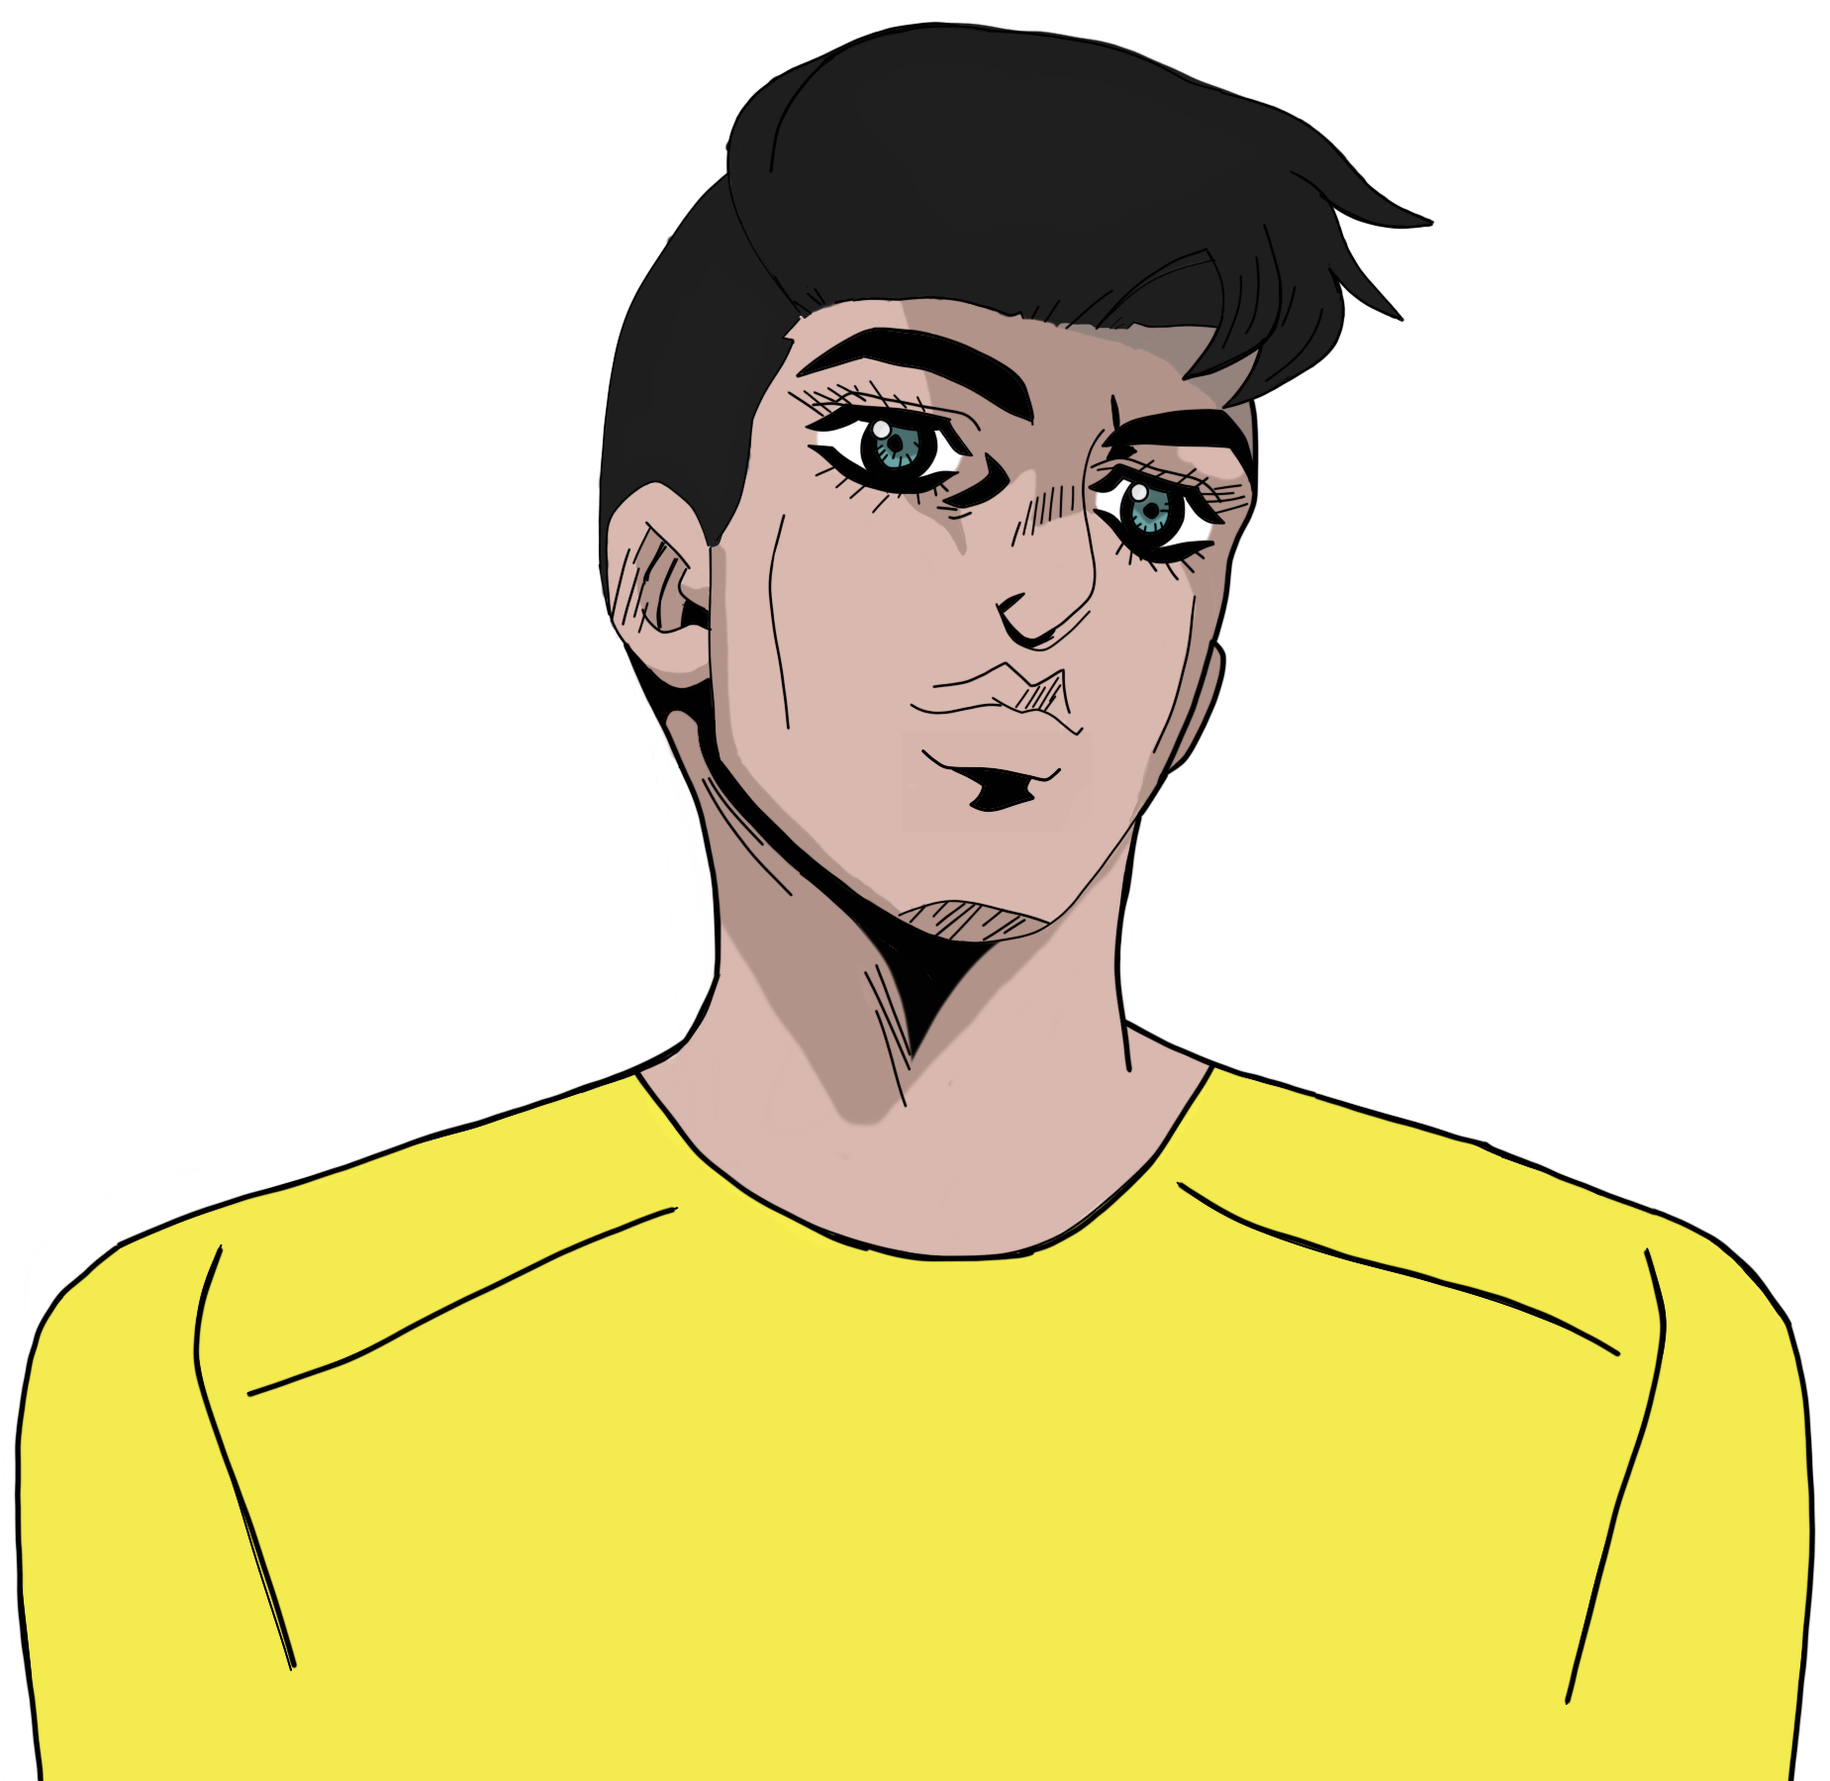
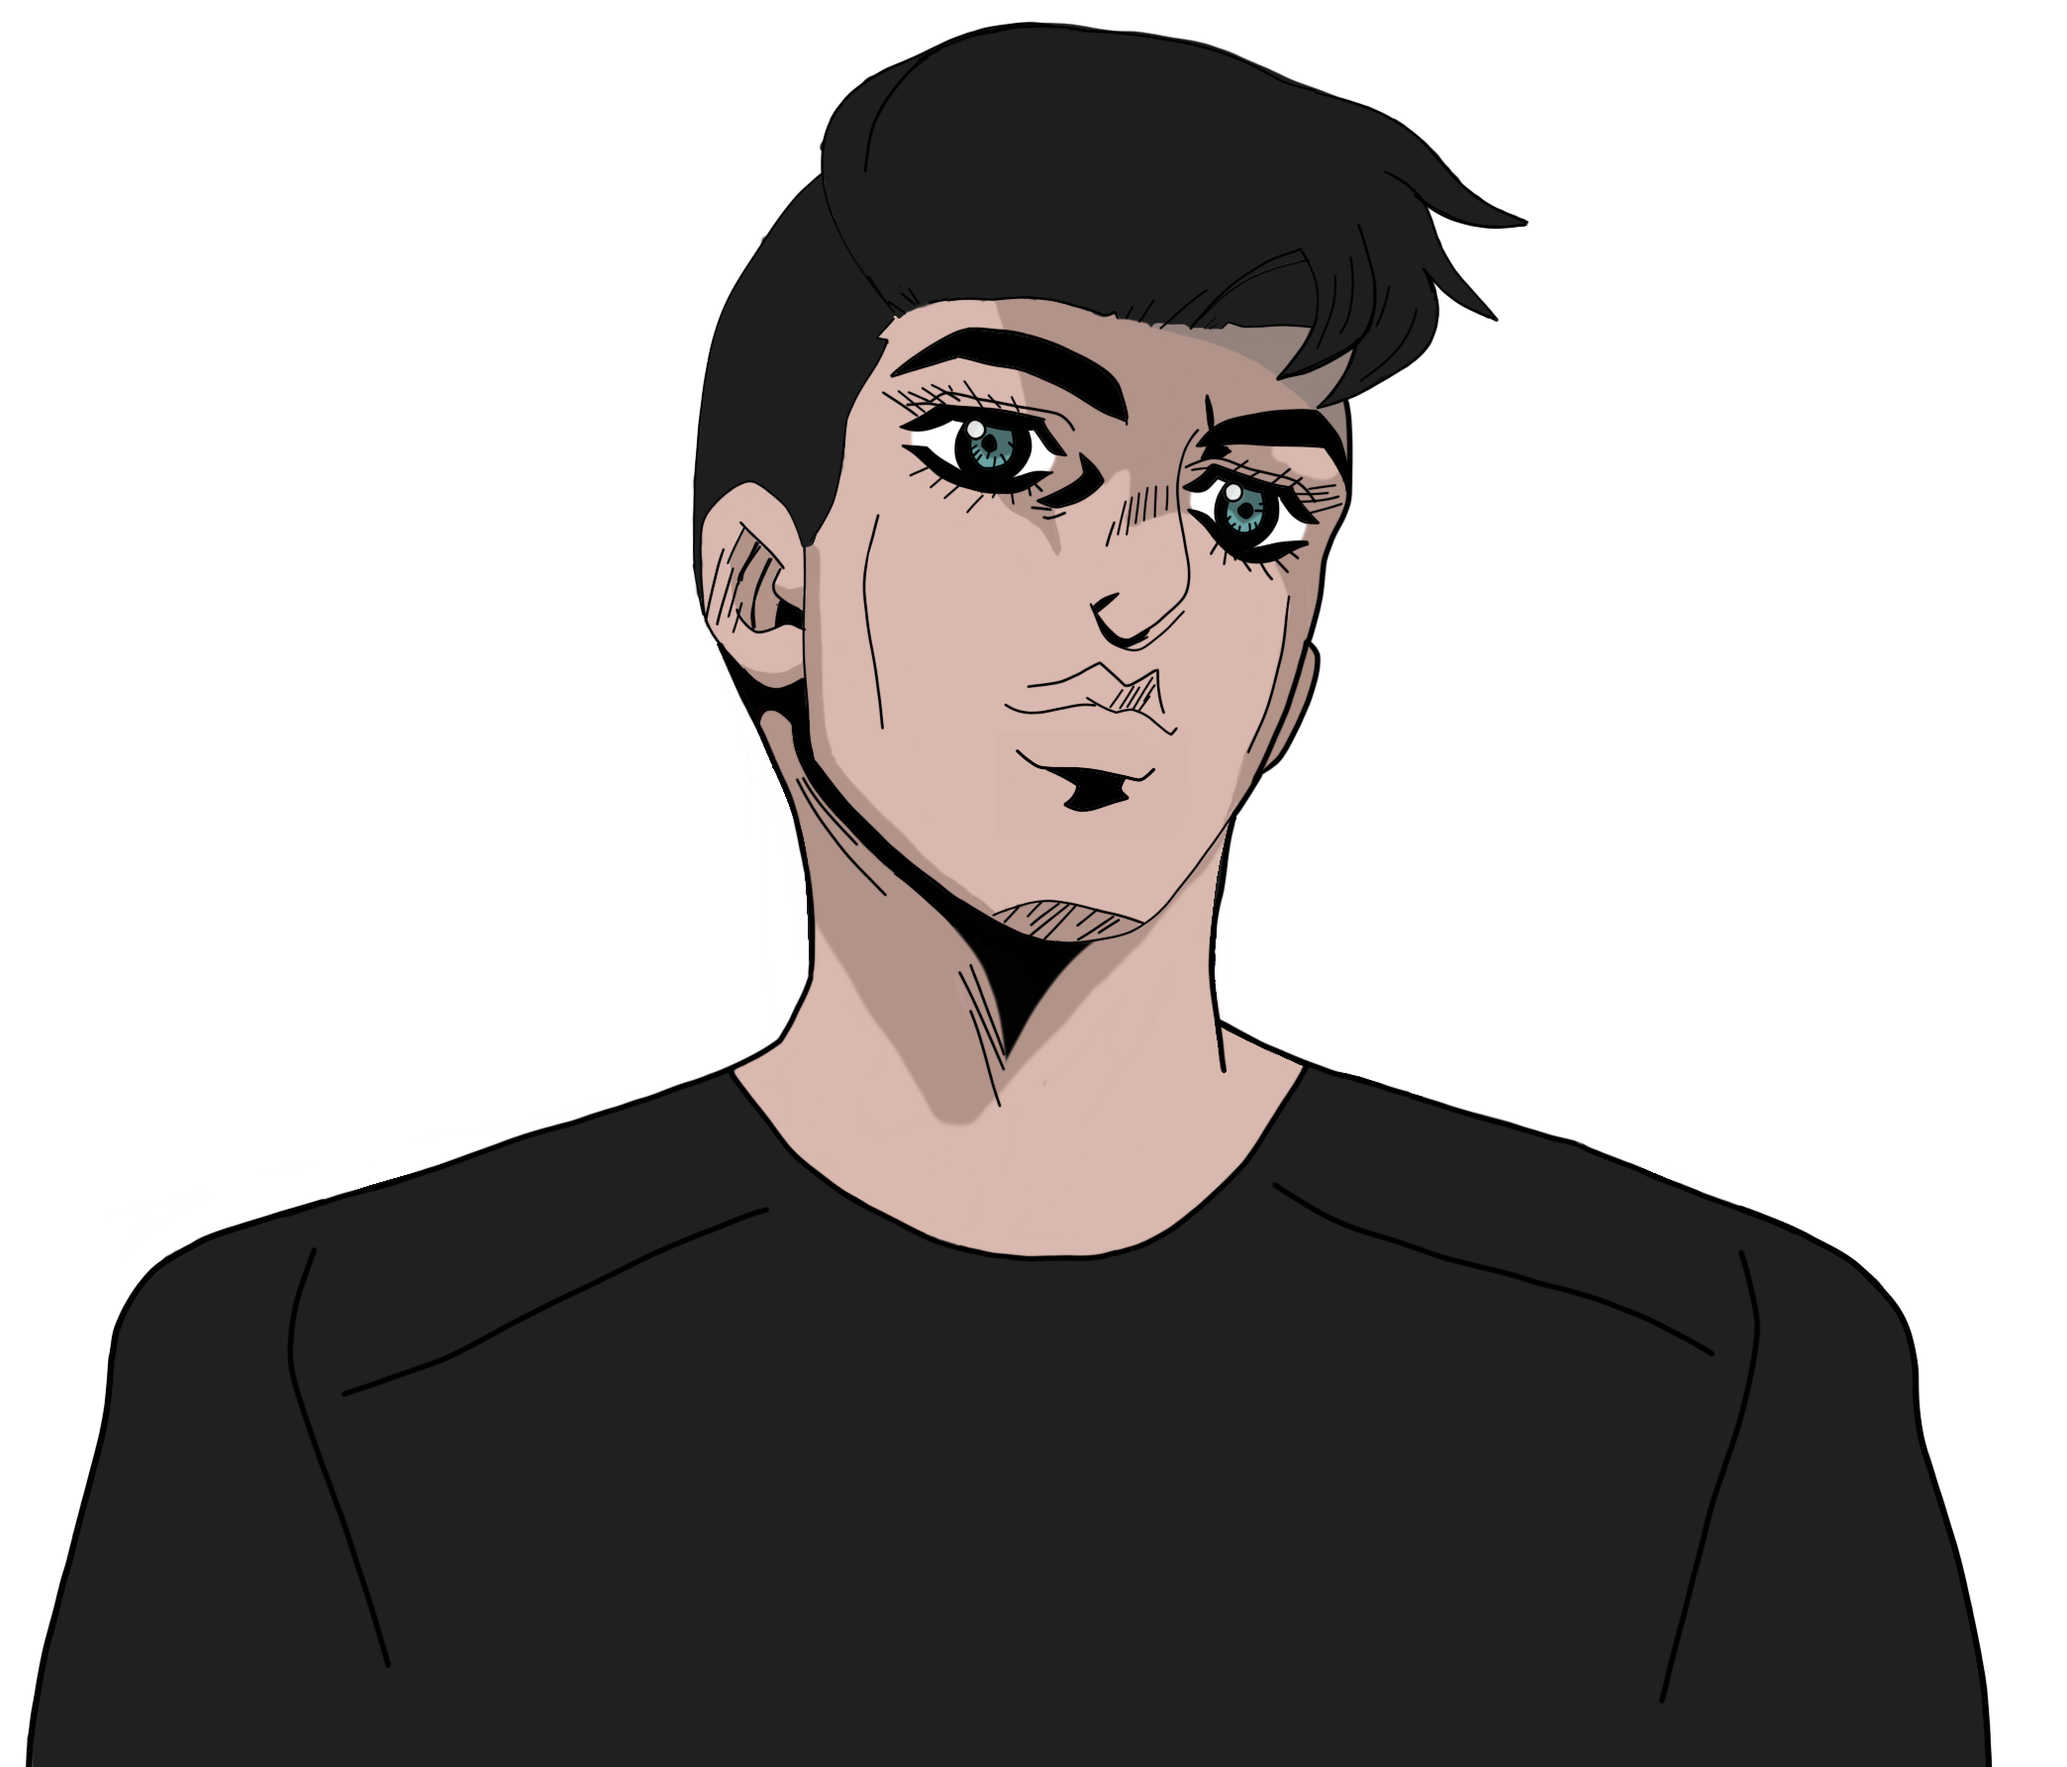
update

diff --git a/src/components/home.js b/src/components/home.js
@@ -1,6 +1,6 @@
 import React from "react";
 import "./home.css";
-import headshot from "../assets/kevinAvitaryellowShirt2.png";
+import headshot from "../assets/kevinAvitarblackShirtv.svg";
 import code from '../assets/code.jpg'
 
 
